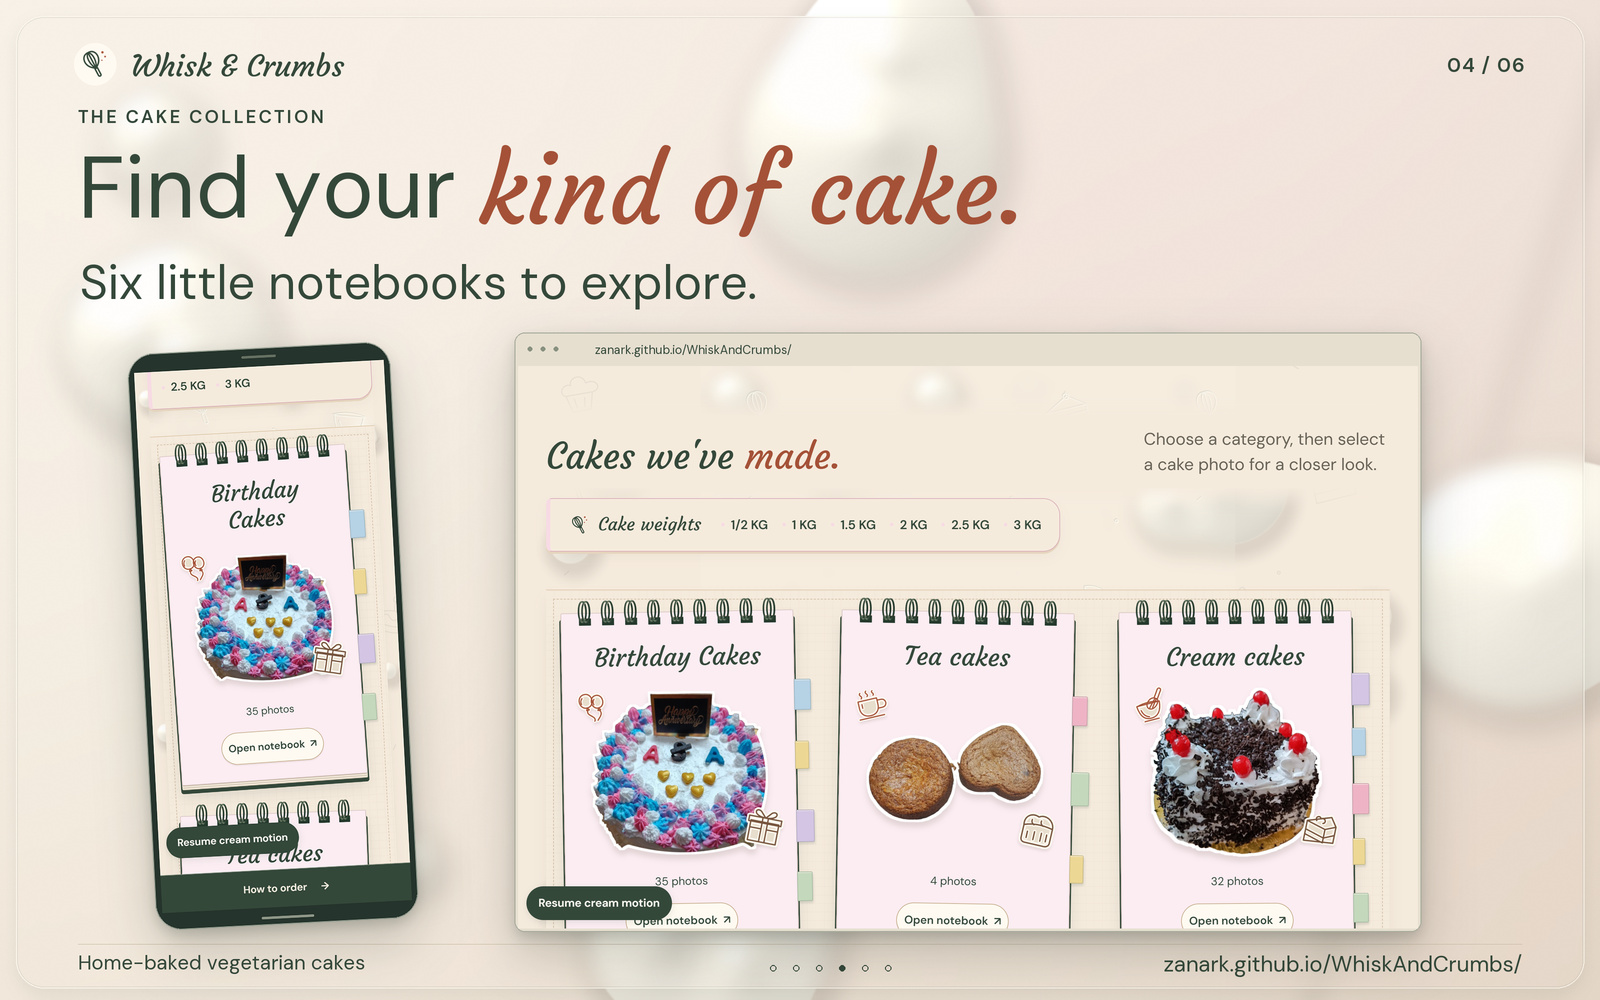
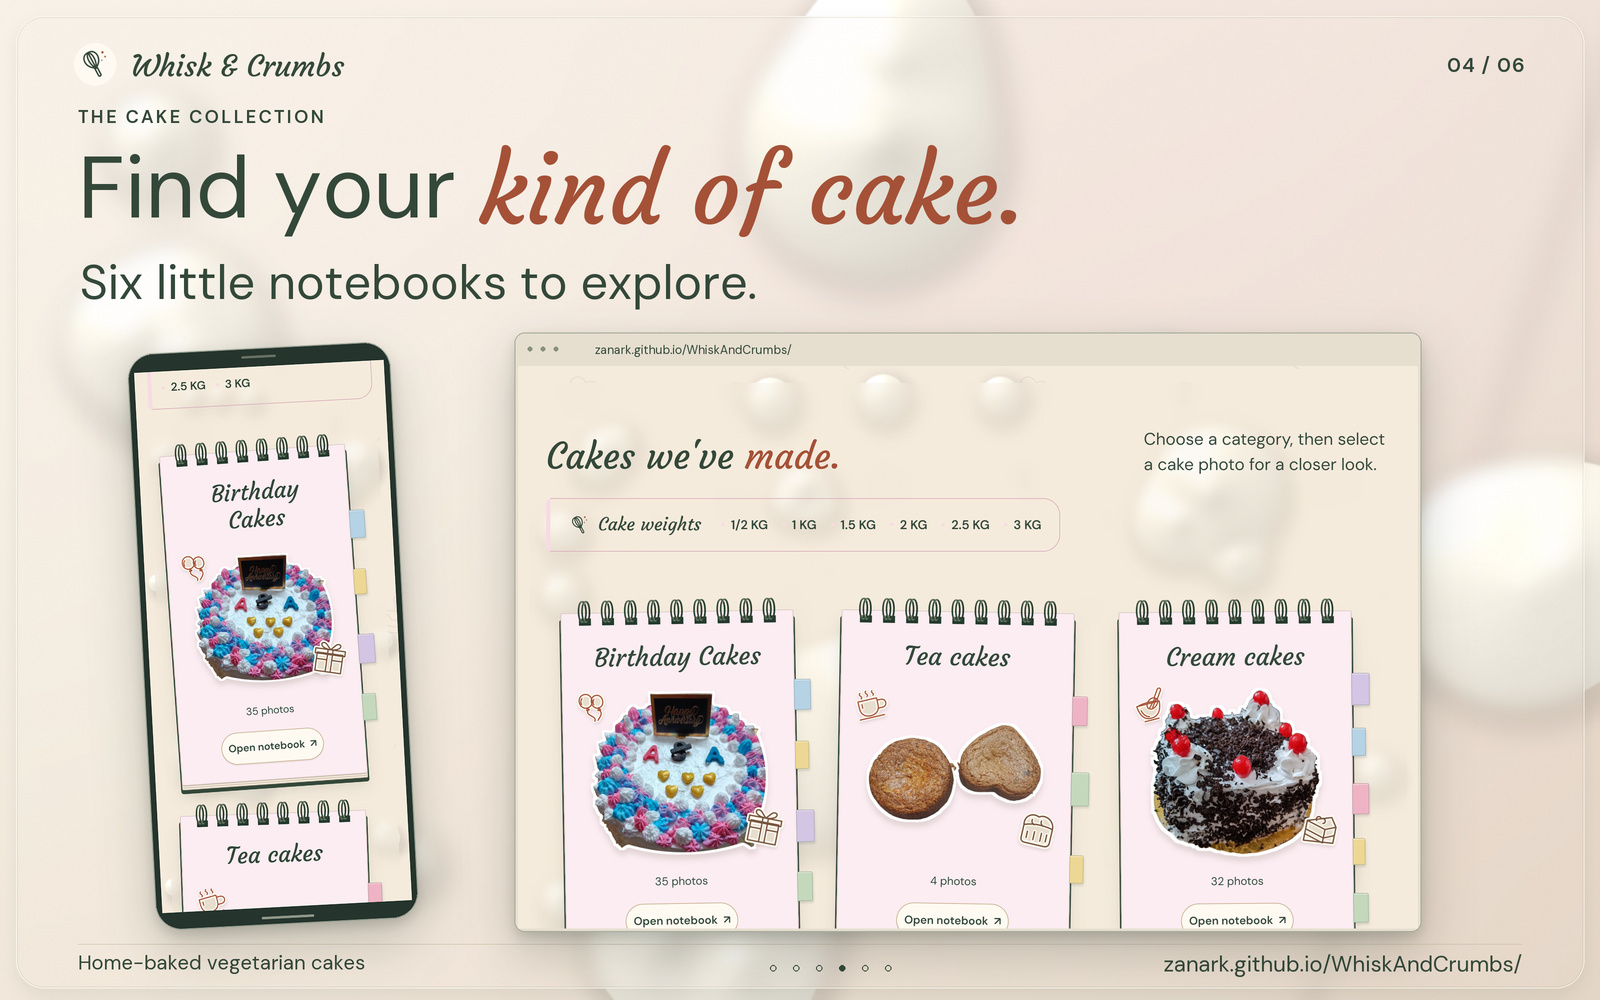
Widen themed glass and keep visible cream motion continuous
Remove individual reading backplates, keep controls out of text, double model motion and retain native viewer controls and explicit pause safeguards.

Copilot-Session: 065222f9-e445-4b98-a549-e6948580c174

Changed region(s): [[0.0938, 0.806, 0.2812, 0.93], [0.3125, 0.868, 0.4375, 0.93], [0.7188, 0.434, 0.875, 0.465]]

diff --git a/site/index.html b/site/index.html
@@ -22,33 +22,33 @@
   <link rel="icon" href="assets/favicon.svg" type="image/svg+xml" sizes="any">
   <link rel="apple-touch-icon" href="assets/apple-touch-icon.png" sizes="180x180">
   <link rel="preload" href="assets/fonts/courgette-regular.ttf" as="font" type="font/ttf" crossorigin>
-  <link rel="stylesheet" href="styles.css?v=c87397ebe557">
-  <link rel="stylesheet" href="entrance-shop.css?v=c87397ebe557">
-  <link rel="stylesheet" href="cozy-bakery.css?v=c87397ebe557">
-  <link rel="stylesheet" href="cream.css?v=c87397ebe557">
-  <link rel="stylesheet" href="readability.css?v=c87397ebe557">
-  <link rel="modulepreload" href="entrance.mjs?v=c87397ebe557">
-  <link rel="modulepreload" href="bell.mjs?v=c87397ebe557">
-  <link rel="modulepreload" href="notebooks.mjs?v=c87397ebe557">
-  <script type="module" src="main.mjs?v=c87397ebe557"></script>
+  <link rel="stylesheet" href="styles.css?v=811c79a1d781">
+  <link rel="stylesheet" href="entrance-shop.css?v=811c79a1d781">
+  <link rel="stylesheet" href="cozy-bakery.css?v=811c79a1d781">
+  <link rel="stylesheet" href="cream.css?v=811c79a1d781">
+  <link rel="stylesheet" href="readability.css?v=811c79a1d781">
+  <link rel="modulepreload" href="entrance.mjs?v=811c79a1d781">
+  <link rel="modulepreload" href="bell.mjs?v=811c79a1d781">
+  <link rel="modulepreload" href="notebooks.mjs?v=811c79a1d781">
+  <script type="module" src="main.mjs?v=811c79a1d781"></script>
 </head>
 <body data-cream-effects="enabled">
   <a class="skip-link" href="#main">Skip to cakes and ordering</a>
   <div id="bakery-entrance" class="bakery-entrance" data-state="pending" data-audio="waiting">
     <div class="entrance-art" aria-hidden="true">
       <div class="entrance-backdrop"></div>
-      <div class="entrance-shop" style="--facade-plaster:url('assets/bakery-facade-plaster.webp?v=c87397ebe557');--sign-wood:url('assets/bakery-sign-wood.webp?v=c87397ebe557')">
+      <div class="entrance-shop" style="--facade-plaster:url('assets/bakery-facade-plaster.webp?v=811c79a1d781');--sign-wood:url('assets/bakery-sign-wood.webp?v=811c79a1d781')">
         <div class="entrance-masonry"></div>
         <picture class="entrance-upper-storey">
-          <source media="(max-width: 600px)" srcset="assets/bakery-facade-upper-mobile.svg?v=c87397ebe557">
-          <img src="assets/bakery-facade-upper.svg?v=c87397ebe557" width="1200" height="360" alt="" decoding="async">
+          <source media="(max-width: 600px)" srcset="assets/bakery-facade-upper-mobile.svg?v=811c79a1d781">
+          <img src="assets/bakery-facade-upper.svg?v=811c79a1d781" width="1200" height="360" alt="" decoding="async">
         </picture>
         <div class="entrance-sign" data-brand="Whisk &amp; Crumbs">
           <img class="entrance-sign-mark" src="assets/whisk-and-crumbs-mark.svg" width="128" height="128" alt="">
           <span class="entrance-sign-copy"><span class="entrance-wordmark">Whisk &amp; Crumbs</span><span class="entrance-descriptor">Home-baked vegetarian cakes</span></span>
         </div>
         <span class="entrance-cornice"></span>
-        <div class="entrance-awning"><img src="assets/bakery-awning.svg?v=c87397ebe557" width="1200" height="300" alt="" decoding="async"><span class="awning-supports" style="background-image:url('assets/bakery-awning-supports.svg?v=c87397ebe557')"></span></div>
+        <div class="entrance-awning"><img src="assets/bakery-awning.svg?v=811c79a1d781" width="1200" height="300" alt="" decoding="async"><span class="awning-supports" style="background-image:url('assets/bakery-awning-supports.svg?v=811c79a1d781')"></span></div>
         <span class="entrance-pier entrance-pier-left"></span><span class="entrance-pier entrance-pier-right"></span>
         <div class="entrance-doorway">
           <div class="entrance-bell-mount"></div>
@@ -62,9 +62,9 @@
           <div class="entrance-doorframe">
             <div class="entrance-room">
               <picture class="entrance-room-poster">
-                <source media="(max-aspect-ratio: 4/5)" srcset="assets/bakery-interior-portrait.webp?v=c87397ebe557">
-                <source media="(max-height: 600px)" srcset="assets/bakery-interior-short.webp?v=c87397ebe557">
-                <img src="assets/bakery-interior-wide.webp?v=c87397ebe557" width="1600" height="1000" alt="" decoding="async">
+                <source media="(max-aspect-ratio: 4/5)" srcset="assets/bakery-interior-portrait.webp?v=811c79a1d781">
+                <source media="(max-height: 600px)" srcset="assets/bakery-interior-short.webp?v=811c79a1d781">
+                <img src="assets/bakery-interior-wide.webp?v=811c79a1d781" width="1600" height="1000" alt="" decoding="async">
               </picture>
             </div>
             <div class="entrance-fixed-bay entrance-fixed-bay-left"><span class="entrance-display-glass"></span><span class="entrance-bay-panel"></span></div>
@@ -94,7 +94,7 @@
         </div>
         <span class="entrance-threshold"></span>
         <span class="entrance-step"></span>
-        <img class="entrance-pavement" src="assets/bakery-facade-ground.svg?v=c87397ebe557" width="1200" height="140" alt="" decoding="async">
+        <img class="entrance-pavement" src="assets/bakery-facade-ground.svg?v=811c79a1d781" width="1200" height="140" alt="" decoding="async">
       </div>
     </div>
     <a id="entrance-enter" class="entrance-enter" href="#home" aria-label="Open the bakery doors and enter">
@@ -108,7 +108,7 @@
   </div>
   <noscript><style>.bakery-entrance { display: none !important; }</style></noscript>
   <header class="site-header">
-    <div class="shop-sign" style="--sign-wood:url('assets/bakery-sign-wood.webp?v=c87397ebe557')">
+    <div class="shop-sign" style="--sign-wood:url('assets/bakery-sign-wood.webp?v=811c79a1d781')">
       <div class="container header-inner">
         <a class="brand" href="#home" aria-label="Whisk &amp; Crumbs - home">
           <img src="assets/whisk-and-crumbs-mark.svg" width="128" height="128" alt="">
@@ -122,10 +122,11 @@
       </nav>
     </div>
   </header>
-  <div class="site-awning" aria-hidden="true"><img src="assets/bakery-awning.svg?v=c87397ebe557" width="1200" height="300" alt="" decoding="async"><span class="awning-supports" style="background-image:url('assets/bakery-awning-supports.svg?v=c87397ebe557')"></span></div>
+  <div class="site-awning" aria-hidden="true"><img src="assets/bakery-awning.svg?v=811c79a1d781" width="1200" height="300" alt="" decoding="async"><span class="awning-supports" style="background-image:url('assets/bakery-awning-supports.svg?v=811c79a1d781')"></span></div>
 
   <main id="main" tabindex="-1">
     <section class="hero-section" id="home" aria-labelledby="hero-title">
+      <span class="cream-glass" aria-hidden="true" style="--cream-etching-image:url('assets/bakery-glass-etching.svg?v=811c79a1d781')"><span class="cream-etching"></span></span>
       <div class="hero container">
         <div class="hero-copy">
           <h1 id="hero-title">Baked at home.<br>Made with <em>heart.</em></h1>
@@ -147,6 +148,7 @@
     </section>
 
     <section class="story-section" id="story" aria-labelledby="story-title">
+      <span class="cream-glass" aria-hidden="true" style="--cream-etching-image:url('assets/bakery-glass-etching.svg?v=811c79a1d781')"><span class="cream-etching"></span></span>
       <div class="container story-layout">
         <div class="story-copy">
           <p class="eyebrow">OUR LITTLE STORY</p>
@@ -169,6 +171,7 @@
     </section>
 
     <section class="cake-section container section-space" id="cakes" aria-labelledby="cakes-title">
+      <span class="cream-glass" aria-hidden="true" style="--cream-etching-image:url('assets/bakery-glass-etching.svg?v=811c79a1d781')"><span class="cream-etching"></span></span>
       <div class="section-heading">
         <h2 id="cakes-title">Cakes we've <em>made.</em></h2>
         <p>Choose a category, then select a cake photo for a closer look.</p>
@@ -2176,6 +2179,7 @@
     </section>
 
     <section class="order-section" id="order" aria-labelledby="order-title">
+      <span class="cream-glass" aria-hidden="true" style="--cream-etching-image:url('assets/bakery-glass-etching.svg?v=811c79a1d781')"><span class="cream-etching"></span></span>
       <div class="container order-layout">
         <div>
           <h2 id="order-title">How to <em>order.</em></h2>
@@ -2197,19 +2201,20 @@
         </div>
       </div>
     </section>
-    <div class="bakery-shelf" aria-hidden="true"><img src="assets/bakery-shelf.svg?v=c87397ebe557" width="960" height="120" alt="" loading="lazy" decoding="async"></div>
+    <div class="bakery-shelf" aria-hidden="true"><img src="assets/bakery-shelf.svg?v=811c79a1d781" width="960" height="120" alt="" loading="lazy" decoding="async"></div>
   </main>
 
   <footer class="container site-footer">
+    <span class="cream-glass" aria-hidden="true" style="--cream-etching-image:url('assets/bakery-glass-etching.svg?v=811c79a1d781')"><span class="cream-etching"></span></span>
     <span>&copy; <span id="year">2026</span> Whisk &amp; Crumbs</span>
     <a href="#home">Back to top <span aria-hidden="true">&#8593;</span></a>
+    <div id="cream-motion-control" hidden><button id="cream-motion-toggle" type="button" aria-pressed="false">Pause cream motion</button><span id="cream-motion-help" class="visually-hidden">Alt+Shift+P pauses or resumes background cream motion when available.</span></div>
+    <a class="mobile-enquire" href="#order">How to order <span aria-hidden="true">&#8594;</span></a>
   </footer>
-  <a class="mobile-enquire" href="#order">How to order <span aria-hidden="true">&#8594;</span></a>
-  <div id="cream-effects" aria-hidden="true" style="--cream-etching-image:url('assets/bakery-glass-etching.svg?v=c87397ebe557')" hidden>
-    <canvas id="cream-material"></canvas><div class="cream-glass"></div><div class="cream-etching"></div>
+  <div id="cream-effects" aria-hidden="true" hidden>
+    <canvas id="cream-material"></canvas>
   </div>
   <canvas id="cream-cursor" aria-hidden="true" hidden></canvas>
-  <div id="cream-motion-control" hidden><button id="cream-motion-toggle" type="button" aria-pressed="false">Pause cream motion</button></div>
 
   <dialog id="notebook-dialog" class="notebook-dialog" aria-labelledby="notebook-dialog-title" aria-describedby="notebook-keyboard-help">
     <div class="notebook-dialog-toolbar">
@@ -2217,10 +2222,10 @@
       <button id="notebook-close" type="button" aria-label="Back to cake categories">Back</button>
     </div>
     <div id="notebook-mount"></div>
-    <p id="notebook-keyboard-help" class="notebook-keyboard-help visually-hidden">Select a cake image to view its photo. Use the arrow keys or right-hand page tags. You can also drag the next-page tag upwards.</p>
+    <p id="notebook-keyboard-help" class="notebook-keyboard-help visually-hidden">Select a cake image to view its photo. Use the arrow keys or right-hand page tags. You can also drag the next-page tag upwards. Alt+Shift+P pauses or resumes background cream motion when available.</p>
   </dialog>
 
-  <dialog id="photo-dialog" aria-labelledby="photo-title" class="photo-dialog">
+  <dialog id="photo-dialog" aria-labelledby="photo-title" aria-describedby="cream-motion-help" class="photo-dialog">
     <div class="photo-dialog-header"><span id="photo-title">A closer look</span><button id="photo-close" type="button" aria-label="Close larger photo">Close</button></div>
     <img id="photo-image" alt="">
     <p id="photo-error" role="alert" hidden>That photo couldn't be loaded. Please try again.</p>

diff --git a/site/cream.css b/site/cream.css
@@ -6,22 +6,37 @@
   pointer-events: none;
 }
 #cream-material { display: block; width: 100%; height: 100%; filter: blur(.8px); }
-.cream-glass, .cream-etching {
+.cream-glass {
+  display: none;
   position: absolute;
-  inset-block: 0;
+  z-index: 2;
+  top: 0;
+  bottom: 0;
   left: 50%;
-  width: min(760px, calc(100% - 80px));
+  width: min(1344px, calc(100vw - 32px));
   transform: translateX(-50%);
   pointer-events: none;
+  background-color: var(--cream-glass-color, var(--cream));
+  background-color: color-mix(in srgb, var(--cream-glass-color, var(--cream)) var(--cream-glass-opacity, 30%), transparent);
+  overflow: clip;
 }
-.cream-glass { z-index: 1; background: rgb(255 250 241 / 10%); }
-.cream-etching { z-index: 2; background: var(--cream-etching-image) repeat; background-size: 640px 480px; }
+.cream-etching { position: absolute; inset: 0; pointer-events: none; opacity: .08; background: var(--cream-etching-image) repeat; background-size: 640px 480px; }
 @supports (backdrop-filter: blur(1px)) {
   .cream-glass { backdrop-filter: blur(8px) saturate(1.025); }
 }
 #cream-cursor { position: fixed; z-index: 70; pointer-events: none; filter: blur(.8px); }
-body.has-cream-effects { isolation: isolate; }
-body.has-cream-effects .hero-section { isolation: auto; }
+body.has-cream-effects { isolation: isolate; padding-bottom: 0; }
+body.has-cream-effects :is(#home, #story, #cakes, #order, .site-footer) { position: relative; isolation: auto; }
+body.has-cream-effects :is(#story, #order) { --cream-glass-color: var(--green); --cream-glass-opacity: 88%; }
+body.has-cream-effects :is(.story-copy, .order-layout) p,
+body.has-cream-effects :is(.hero-description, .section-heading > p) { color: inherit; }
+body.has-cream-effects .cream-glass { display: block; }
+body.has-cream-effects :is(.hero-copy, .section-heading, .story-copy, .order-layout > div, .order-action)::before { content: none; }
+body.has-cream-effects .hero-photo .photo-link::after { background: transparent; }
+body.has-cream-effects .category-notebooks { background: transparent; box-shadow: none; border-color: transparent; }
+body.has-cream-effects .category-notebooks::before,
+body.has-cream-effects .category-notebooks::after { content: none; }
+body.has-cream-effects .cake-weight-info { background: transparent; box-shadow: none; }
 body.has-cream-effects .hero,
 body.has-cream-effects .story-layout,
 body.has-cream-effects #cakes > .section-heading,
@@ -29,18 +44,16 @@ body.has-cream-effects #cakes > .cake-weight-info,
 body.has-cream-effects #cakes > .category-notebooks,
 body.has-cream-effects #cakes > .notebook-library,
 body.has-cream-effects .order-layout,
-body.has-cream-effects .bakery-shelf { position: relative; z-index: 2; }
+body.has-cream-effects .bakery-shelf,
+body.has-cream-effects .site-footer > :not(.cream-glass) { position: relative; z-index: 3; }
 body.has-cream-effects .site-header,
-body.has-cream-effects .site-awning,
-body.has-cream-effects .site-footer { position: relative; z-index: 3; }
-body.has-cream-effects .site-footer { background: var(--cream); }
-body.has-cream-effects .mobile-enquire { z-index: 21; }
+body.has-cream-effects .site-awning { position: relative; z-index: 4; }
+body.has-cream-effects .site-footer { background: transparent; color: var(--green); }
+body.has-cream-effects .mobile-enquire { position: relative; inset: auto; width: 100%; border-radius: 16px; }
 #cream-motion-control {
-  position: fixed;
-  z-index: 20;
-  left: 12px;
-  bottom: calc(12px + env(safe-area-inset-bottom));
-  max-width: calc(100% - 24px);
+  position: relative;
+  z-index: 3;
+  max-width: 100%;
 }
 #cream-motion-toggle {
   display: block;
@@ -59,17 +72,11 @@ body.has-cream-effects .mobile-enquire { z-index: 21; }
 @media (hover: hover) and (pointer: fine) {
   body.cream-cursor-active, body.cream-cursor-active * { cursor: none !important; }
 }
-@media (max-width: 900px) {
-  .cream-glass, .cream-etching { width: min(760px, calc(100% - 48px)); }
-}
-@media (max-width: 600px) {
-  .cream-glass, .cream-etching { width: calc(100% - 40px); }
-  #cream-motion-control { bottom: calc(84px + env(safe-area-inset-bottom)); }
-}
 @media (prefers-reduced-transparency: reduce) {
-  .cream-glass, .cream-etching { display: none; backdrop-filter: none; }
+  body.has-cream-effects .cream-glass { background-color: var(--cream-glass-color, var(--cream)); backdrop-filter: none; }
+  .cream-etching { display: none; }
 }
 @media (prefers-reduced-motion: reduce), (forced-colors: active), print {
-  #cream-effects, #cream-cursor, #cream-motion-control { display: none !important; }
+  #cream-effects, #cream-cursor, #cream-motion-control, .cream-glass { display: none !important; }
   body.cream-cursor-active, body.cream-cursor-active * { cursor: auto !important; }
 }

diff --git a/README.md b/README.md
@@ -1,11 +1,11 @@
-[![Our little corner is now online: genuine bakery views with a lit projecting roof, shaded front valance and short rounded ends, on lightly frosted glass above unique cream clusters and droplets.](site/assets/showcase/01-welcome.jpg?v=54e7b99f422a)](https://zanark.github.io/WhiskAndCrumbs/)
+[![Our little corner is now online: genuine bakery views with a lit projecting roof, shaded front valance and short rounded ends, on lightly frosted glass above unique cream clusters and droplets.](site/assets/showcase/01-welcome.jpg?v=d9a640ddfcf1)](https://zanark.github.io/WhiskAndCrumbs/)
 
 [![Come on in: genuine bakery entrance views with glowing whisk and heart neon emblems on the glass doors and a softly shaded striped awning, on lightly frosted glass above irregular cream clusters.](site/assets/showcase/02-bakery-entrance.jpg?v=e5f2ebaafe7c)](https://zanark.github.io/WhiskAndCrumbs/)
 
-[![A little care in every layer: genuine story and recipe-note views with sharp green lettering on lightly frosted glass, above distinct irregular cream clusters and small droplets.](site/assets/showcase/03-our-story.jpg?v=d9e8719ff856)](https://zanark.github.io/WhiskAndCrumbs/#story)
+[![A little care in every layer: genuine story and recipe-note views with sharp green lettering on lightly frosted glass, above distinct irregular cream clusters and small droplets.](site/assets/showcase/03-our-story.jpg?v=19bb447c668b)](https://zanark.github.io/WhiskAndCrumbs/#story)
 
-[![Find your kind of cake: genuine pink-notebook views and readable headings on a single lightly frosted panel, with a unique clustered cream arrangement visible behind the glass.](site/assets/showcase/04-cake-notebooks.jpg?v=faf876b8ee9e)](https://zanark.github.io/WhiskAndCrumbs/#cakes)
+[![Find your kind of cake: genuine pink-notebook views and readable headings on a single lightly frosted panel, with a unique clustered cream arrangement visible behind the glass.](site/assets/showcase/04-cake-notebooks.jpg?v=64de7126c9a8)](https://zanark.github.io/WhiskAndCrumbs/#cakes)
 
-[![Take a closer look: genuine four-photo catalogues with clickable cake images, centered names, Back to categories and both page-arrow tags attached on the right, on lightly frosted glass above irregular cream clusters.](site/assets/showcase/05-open-notebook.jpg?v=2ea0005f6b9b)](https://zanark.github.io/WhiskAndCrumbs/#cakes)
+[![Take a closer look: genuine four-photo catalogues with clickable cake images, centered names, Back to categories and both page-arrow tags attached on the right, on lightly frosted glass above irregular cream clusters.](site/assets/showcase/05-open-notebook.jpg?v=298fc1661fa2)](https://zanark.github.io/WhiskAndCrumbs/#cakes)
 
-[![Your next cake starts with hello: genuine desktop and mobile ordering views and sharp green copy on lightly frosted glass, with a separately oriented cream-cluster and droplet background.](site/assets/showcase/06-simple-ordering.jpg?v=fe929dab9ab3)](https://zanark.github.io/WhiskAndCrumbs/#order)
+[![Your next cake starts with hello: genuine desktop and mobile ordering views and sharp green copy on lightly frosted glass, with a separately oriented cream-cluster and droplet background.](site/assets/showcase/06-simple-ordering.jpg?v=9a9a134be2ec)](https://zanark.github.io/WhiskAndCrumbs/#order)

diff --git a/ABOUT.md b/ABOUT.md
@@ -77,7 +77,7 @@ flash or animate; the original font and logo artwork are retained.
 
 The real hero cake sits directly on the cream canvas, without an illustrated
 window behind it. Small timber edges, a layered-paper recipe note,
-a quiet linen surround beneath the notebooks and
+the physical notebook covers and
 a kitchen shelf near the footer carry the warm bakery mood through the page.
 These details are static and decorative; reading areas and controls stay clear.
 
@@ -162,14 +162,22 @@ cover uses five individually scattered pieces while the full assortment stays in
 The cream, deep-green and terracotta palette, clear handwritten headings and
 readable body text are retained. Ruled lines stay away from reading text.
 Soft cream shapes move over the bakery backgrounds, with small droplets and
-groups that drift together or gently separate and rejoin. A lightly frosted,
-etched center sits behind the foreground; reading panels and notebook paper stay
-solid so the text and real cake photographs remain clear.
+groups that drift together or gently separate and rejoin. The frosted column
+spans the full content area below the awning and inherits each section's cream
+or green colour. Text sits directly on that shared glass, without individual
+background panels; the real notebook covers and recipe-note illustration retain
+their own paper surfaces.
 On supported mouse devices, a pale strawberry-cream shape and trail replace the
 normal pointer while the effect is active. They never intercept clicks.
-Use **Pause cream motion** to freeze the decoration and restore the normal pointer.
-The effect stays out of the entrance and open notebooks or enlarged photos.
-Reduced motion, forced colours, printing, inactive pages and unsupported graphics
+Use **Pause cream motion** in the footer to freeze the decoration and restore the normal pointer.
+With cream enabled, the mobile **How to order** shortcut also stays in the footer
+rather than floating over reading text.
+Ambient movement continues while the page is visible, even when the window loses
+focus or the pointer leaves it, and now runs twice as fast as the first website edition.
+The effect stays out of the entrance. Background motion continues behind open
+notebooks and enlarged photos, while their controls use the normal pointer.
+**Alt+Shift+P** pauses or resumes the motion without closing a viewer.
+Reduced motion, forced colours, printing, hidden pages and unsupported graphics
 keep the ordinary static website and pointer. These shapes are decorative,
 not photographs of products or statements about ingredients.
 The notebooks support click, touch, Enter and Space, with visible keyboard focus.
